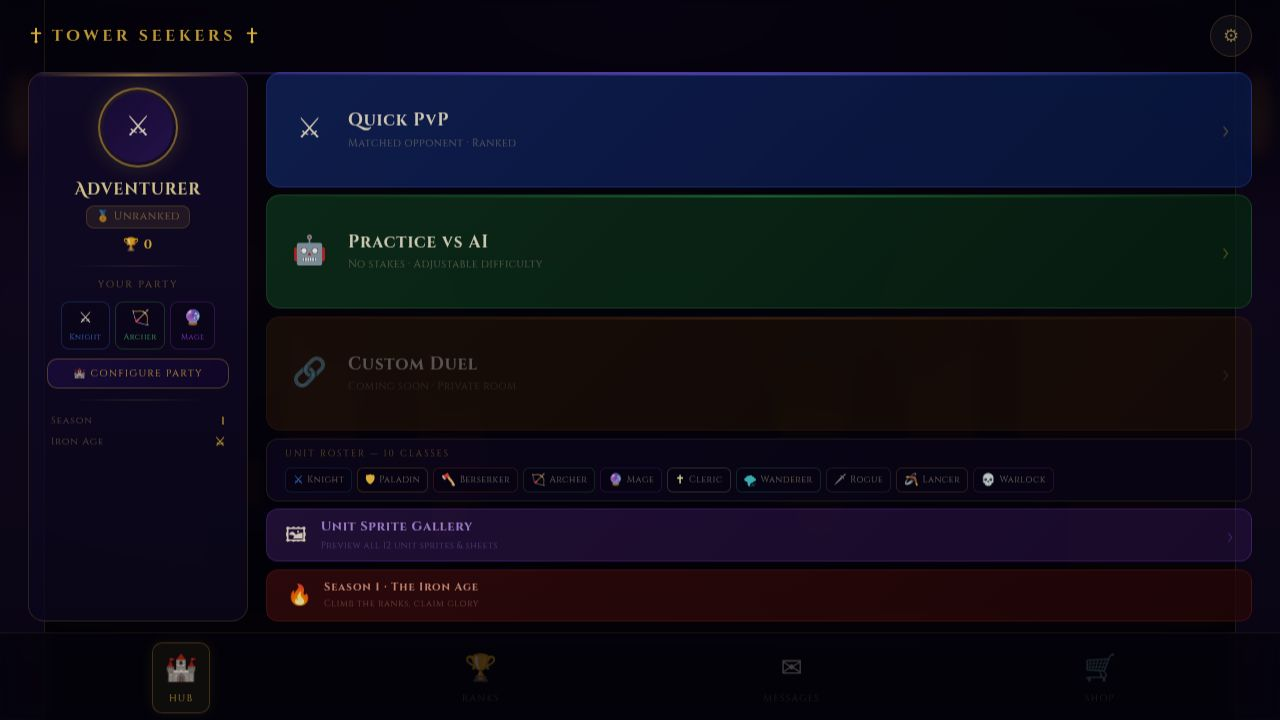
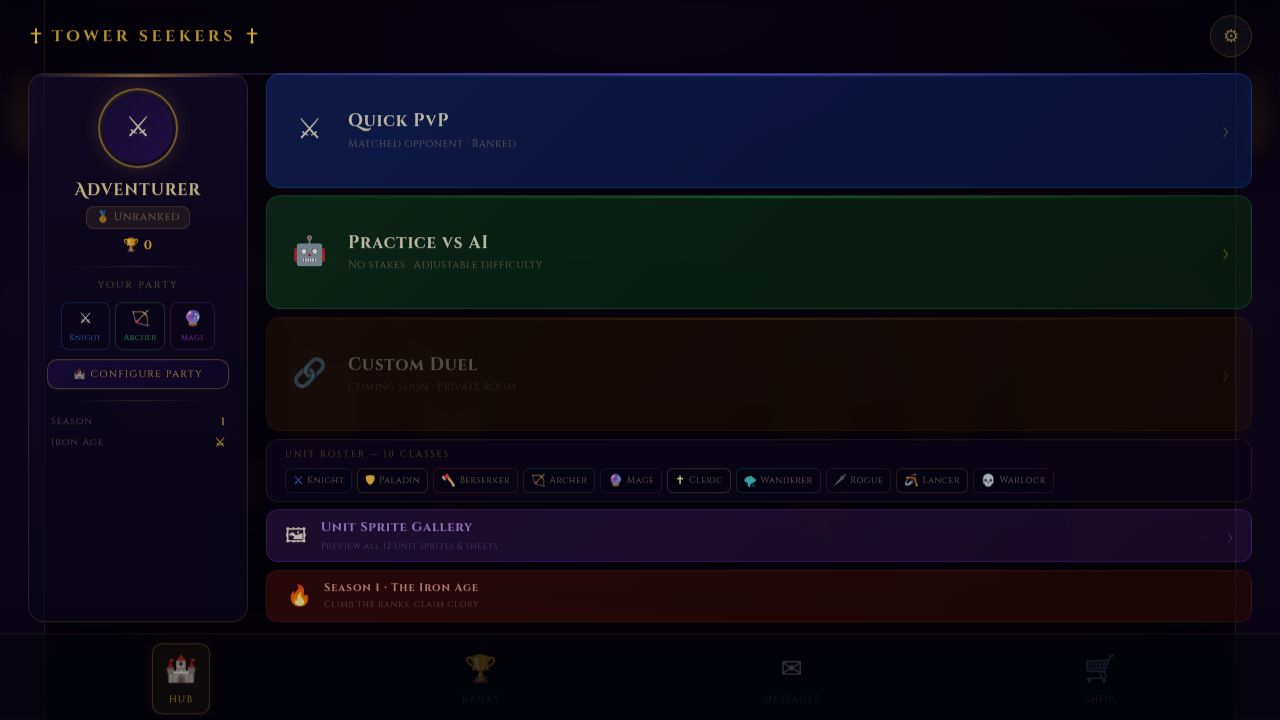
feat(game-client): integrate Wanderer pixel-art sprite into BattleRenderer
Task: Replace the procedural 3D geometry for Wanderer units with the verified
pixel-art sprite sheet in the live BattleRenderer.

Implementation:
- Added sprite-sheet constants matching the mockup reference (CROP_Y=230,
  CROP_H=380, 12 frames, idle=[0,1], attack=[2-11], idle FPS=4, attack FPS=10)
- Added WandererAnim interface to track per-unit sprite animation state
  (sprite, material, texture, isAttacking flag, frame sequence index, timing)
- Extended UnitRecord with optional wandererAnim field; all non-Wanderer units
  are unaffected
- In syncUnits(), Wanderer units now create a THREE.Sprite (camera-billboarded)
  using a cloned texture from the pre-loaded sprite sheet instead of the old
  buildWanderer() 3D geometry
- setWandererFrame() helper handles UV offset/repeat for frame selection and
  uses negative repeat.x to horizontally flip enemy Wanderers (so they face
  the ally team without needing group rotation)
- applyUnitColors() extended: Wanderer path applies SpriteMaterial color tints
  (damage=red flash, ko=dark, selected=blue tint, normal=white) and detects
  the flashUnits["attack"] edge transition to trigger the attack animation
- Per-frame animation tick added in animate() before syncUnits(): advances idle
  frames at 4 FPS, runs the 10-frame attack sequence at 10 FPS, then returns
  to idle
- Sprite size (WDR_SPR_H=0.85 world units) matches the visual scale of other
  units; base is aligned to tile surface via sprite.position.y = sprH/2 + 0.05
[…]

diff --git a/artifacts/game-client/src/components/BattleRenderer.tsx b/artifacts/game-client/src/components/BattleRenderer.tsx
@@ -27,6 +27,22 @@ const ENEMY_D = 0x881111;
 const WEAPON  = 0x888877;
 const GOLD    = 0xd4aa33;
 
+// ── Wanderer sprite-sheet constants ──────────────────────────────────────────
+const WDR_COLS         = 12;
+const WDR_FRAME_W      = 128;
+const WDR_FRAME_H      = 1024;
+const WDR_CROP_Y       = 230;
+const WDR_CROP_H       = 380;
+const WDR_IDLE_FRAMES  = [0, 1];
+const WDR_ATTACK_FRAMES = [2, 3, 4, 5, 6, 7, 8, 9, 10, 11];
+const WDR_IDLE_FPS     = 4;
+const WDR_ATTACK_FPS   = 10;
+// Sprite display size in world units — matches other units visually
+const WDR_SPR_H        = 0.85;
+const WDR_SPR_W        = WDR_SPR_H * (WDR_FRAME_W / WDR_CROP_H);
+// Three.js UV: origin is bottom-left, so offset_y skips the blank top band
+const WDR_UV_OFFSET_Y  = (WDR_FRAME_H - WDR_CROP_Y - WDR_CROP_H) / WDR_FRAME_H; // ≈ 0.404
+
 // Tile highlight colours
 const HL_MOVE  = 0x44cc55;
 const HL_ATCK  = 0xff4422;
@@ -69,6 +85,18 @@ interface CharInfo {
   group:     THREE.Group;
   armorMat:  THREE.MeshLambertMaterial;
   detailMat: THREE.MeshLambertMaterial;
+}
+
+interface WandererAnim {
+  sprite:       THREE.Sprite;
+  mat:          THREE.SpriteMaterial;
+  tex:          THREE.Texture;
+  isEnemy:      boolean;
+  frameIndex:   number;
+  isAttacking:  boolean;
+  attackSeqIdx: number;
+  lastMs:       number;
+  prevFlash:    string | undefined;
 }
 
 function mk(
@@ -338,6 +366,14 @@ export default function BattleRenderer({
     renderer.shadowMap.enabled = true;
     renderer.shadowMap.type = THREE.PCFShadowMap;
     el.appendChild(renderer.domElement);
+
+    // ── Wanderer sprite texture (loaded once, cloned per unit) ───────────────
+    const _base = (import.meta.env.BASE_URL as string)?.replace(/\/$/, "") ?? "";
+    const wandererBaseTex = new THREE.TextureLoader().load(
+      `${_base}/assets/units/wanderer-sprite.png`,
+    );
+    wandererBaseTex.wrapS = THREE.ClampToEdgeWrapping;
+    wandererBaseTex.wrapT = THREE.ClampToEdgeWrapping;
 
     const scene = new THREE.Scene();
     // Warm amber-orange fog matches the horizon — fills any distant void
@@ -643,17 +679,60 @@ export default function BattleRenderer({
     const shadowMat = new THREE.MeshBasicMaterial({ color: 0x000000, transparent: true, opacity: 0.5 });
 
     interface UnitRecord {
-      group:     THREE.Group;
-      shadow:    THREE.Mesh;
-      armorMat:  THREE.MeshLambertMaterial;
-      detailMat: THREE.MeshLambertMaterial;
-      isEnemy:   boolean;
+      group:         THREE.Group;
+      shadow:        THREE.Mesh;
+      armorMat:      THREE.MeshLambertMaterial;
+      detailMat:     THREE.MeshLambertMaterial;
+      isEnemy:       boolean;
+      wandererAnim?: WandererAnim;
     }
     const unitMeshes = new Map<string, UnitRecord>();
+
+    // ── Wanderer sprite UV helper ────────────────────────────────────────────
+    function setWandererFrame(wa: WandererAnim, sheetFrame: number) {
+      // Negative repeat.x flips the sprite horizontally for enemy units
+      const repeatX = wa.isEnemy ? -(1 / WDR_COLS) : (1 / WDR_COLS);
+      wa.tex.repeat.set(repeatX, WDR_CROP_H / WDR_FRAME_H);
+      // When flipped (enemy), offset.x must shift by one frame-width so the
+      // visible region lands on the correct frame column
+      const offsetX = wa.isEnemy
+        ? (sheetFrame + 1) / WDR_COLS
+        : sheetFrame / WDR_COLS;
+      wa.tex.offset.set(offsetX, WDR_UV_OFFSET_Y);
+      wa.tex.needsUpdate = true;
+      wa.frameIndex = sheetFrame;
+    }
 
     function applyUnitColors(rec: UnitRecord, instanceId: string) {
       const { selectedId, queued, flashUnits } = live.current;
       const flash = flashUnits[instanceId];
+
+      // ── Wanderer sprite path ──────────────────────────────────────────────
+      if (rec.wandererAnim) {
+        const wa = rec.wandererAnim;
+        // Trigger attack animation when the actor flash fires
+        if (flash === "attack" && wa.prevFlash !== "attack" && !wa.isAttacking) {
+          wa.isAttacking  = true;
+          wa.attackSeqIdx = 0;
+          wa.lastMs       = performance.now();
+          setWandererFrame(wa, WDR_ATTACK_FRAMES[0]);
+        }
+        wa.prevFlash = flash;
+
+        // Apply colour tint to sprite material
+        if (flash === "damage") {
+          wa.mat.color.setRGB(1, 0.45, 0.45);      // red-white flash
+        } else if (flash === "ko") {
+          wa.mat.color.setRGB(0.12, 0.08, 0.12);   // almost black
+        } else if (instanceId === selectedId) {
+          wa.mat.color.setRGB(0.55, 0.88, 1.0);    // blue-white selection
+        } else {
+          wa.mat.color.setRGB(1, 1, 1);             // natural colours
+        }
+        return;
+      }
+
+      // ── 3-D geometry path ────────────────────────────────────────────────
       if (flash === "damage") {
         rec.armorMat.color.setHex(0xffffff);
         rec.detailMat.color.setHex(0xdddddd);
@@ -697,18 +776,56 @@ export default function BattleRenderer({
 
         let rec = unitMeshes.get(unit.instanceId);
         if (!rec) {
-          const built = buildCharacterFor(unit.defId, unit.isEnemy);
-          built.group.traverse(c => {
-            if (c instanceof THREE.Mesh) {
-              c.userData = { type: "unit", instanceId: unit.instanceId, isEnemy: unit.isEnemy };
-            }
-          });
-          built.group.userData = { type: "unit", instanceId: unit.instanceId, isEnemy: unit.isEnemy };
-
           const shadow = new THREE.Mesh(shadowGeo, shadowMat.clone());
           shadow.rotation.x = -Math.PI / 2;
-          scene.add(built.group); scene.add(shadow);
-          rec = { group: built.group, shadow, armorMat: built.armorMat, detailMat: built.detailMat, isEnemy: unit.isEnemy };
+
+          if (unit.defId === "wanderer") {
+            // ── Wanderer: pixel-art sprite sheet ─────────────────────────────
+            const tex = wandererBaseTex.clone();
+            tex.needsUpdate = true;
+            const mat = new THREE.SpriteMaterial({ map: tex, transparent: true, depthWrite: false });
+            const sprite = new THREE.Sprite(mat);
+            sprite.scale.set(WDR_SPR_W, WDR_SPR_H, 1);
+            // Centre the sprite so its base aligns with the tile surface
+            sprite.position.set(0, WDR_SPR_H / 2 + 0.05, 0);
+            sprite.userData = { type: "unit", instanceId: unit.instanceId, isEnemy: unit.isEnemy };
+
+            const group = new THREE.Group();
+            group.userData = { type: "unit", instanceId: unit.instanceId, isEnemy: unit.isEnemy };
+            group.add(sprite);
+
+            const wa: WandererAnim = {
+              sprite, mat, tex,
+              isEnemy:      unit.isEnemy,
+              frameIndex:   WDR_IDLE_FRAMES[0],
+              isAttacking:  false,
+              attackSeqIdx: 0,
+              lastMs:       0,
+              prevFlash:    undefined,
+            };
+            setWandererFrame(wa, WDR_IDLE_FRAMES[0]);
+
+            scene.add(group); scene.add(shadow);
+            rec = {
+              group, shadow,
+              armorMat:  new THREE.MeshLambertMaterial(),
+              detailMat: new THREE.MeshLambertMaterial(),
+              isEnemy:   unit.isEnemy,
+              wandererAnim: wa,
+            };
+          } else {
+            // ── All other units: procedural 3-D geometry ──────────────────────
+            const built = buildCharacterFor(unit.defId, unit.isEnemy);
+            built.group.traverse(c => {
+              if (c instanceof THREE.Mesh) {
+                c.userData = { type: "unit", instanceId: unit.instanceId, isEnemy: unit.isEnemy };
+              }
+            });
+            built.group.userData = { type: "unit", instanceId: unit.instanceId, isEnemy: unit.isEnemy };
+            scene.add(built.group); scene.add(shadow);
+            rec = { group: built.group, shadow, armorMat: built.armorMat, detailMat: built.detailMat, isEnemy: unit.isEnemy };
+          }
+
           unitMeshes.set(unit.instanceId, rec);
         }
         rec.group.position.set(wx, PLAT_Y + TILE_H, wz);
@@ -791,6 +908,31 @@ export default function BattleRenderer({
       });
       // Water shimmer
       waterMat.color.setHSL(0.60, 0.68, 0.13 + Math.sin(tick * 0.033) * 0.04);
+
+      // ── Wanderer sprite frame advancement ─────────────────────────────────
+      const nowMs = performance.now();
+      for (const [, rec] of unitMeshes) {
+        const wa = rec.wandererAnim;
+        if (!wa) continue;
+        const fps = wa.isAttacking ? WDR_ATTACK_FPS : WDR_IDLE_FPS;
+        if (nowMs - wa.lastMs < 1000 / fps) continue;
+        wa.lastMs = nowMs;
+        if (wa.isAttacking) {
+          const nextSeqIdx = wa.attackSeqIdx + 1;
+          if (nextSeqIdx >= WDR_ATTACK_FRAMES.length) {
+            wa.isAttacking  = false;
+            wa.attackSeqIdx = 0;
+            setWandererFrame(wa, WDR_IDLE_FRAMES[0]);
+          } else {
+            wa.attackSeqIdx = nextSeqIdx;
+            setWandererFrame(wa, WDR_ATTACK_FRAMES[nextSeqIdx]);
+          }
+        } else {
+          const idlePos = WDR_IDLE_FRAMES.indexOf(wa.frameIndex);
+          const nextIdleIdx = (idlePos >= 0 ? idlePos + 1 : 0) % WDR_IDLE_FRAMES.length;
+          setWandererFrame(wa, WDR_IDLE_FRAMES[nextIdleIdx]);
+        }
+      }
 
       syncUnits();
       syncHighlights();